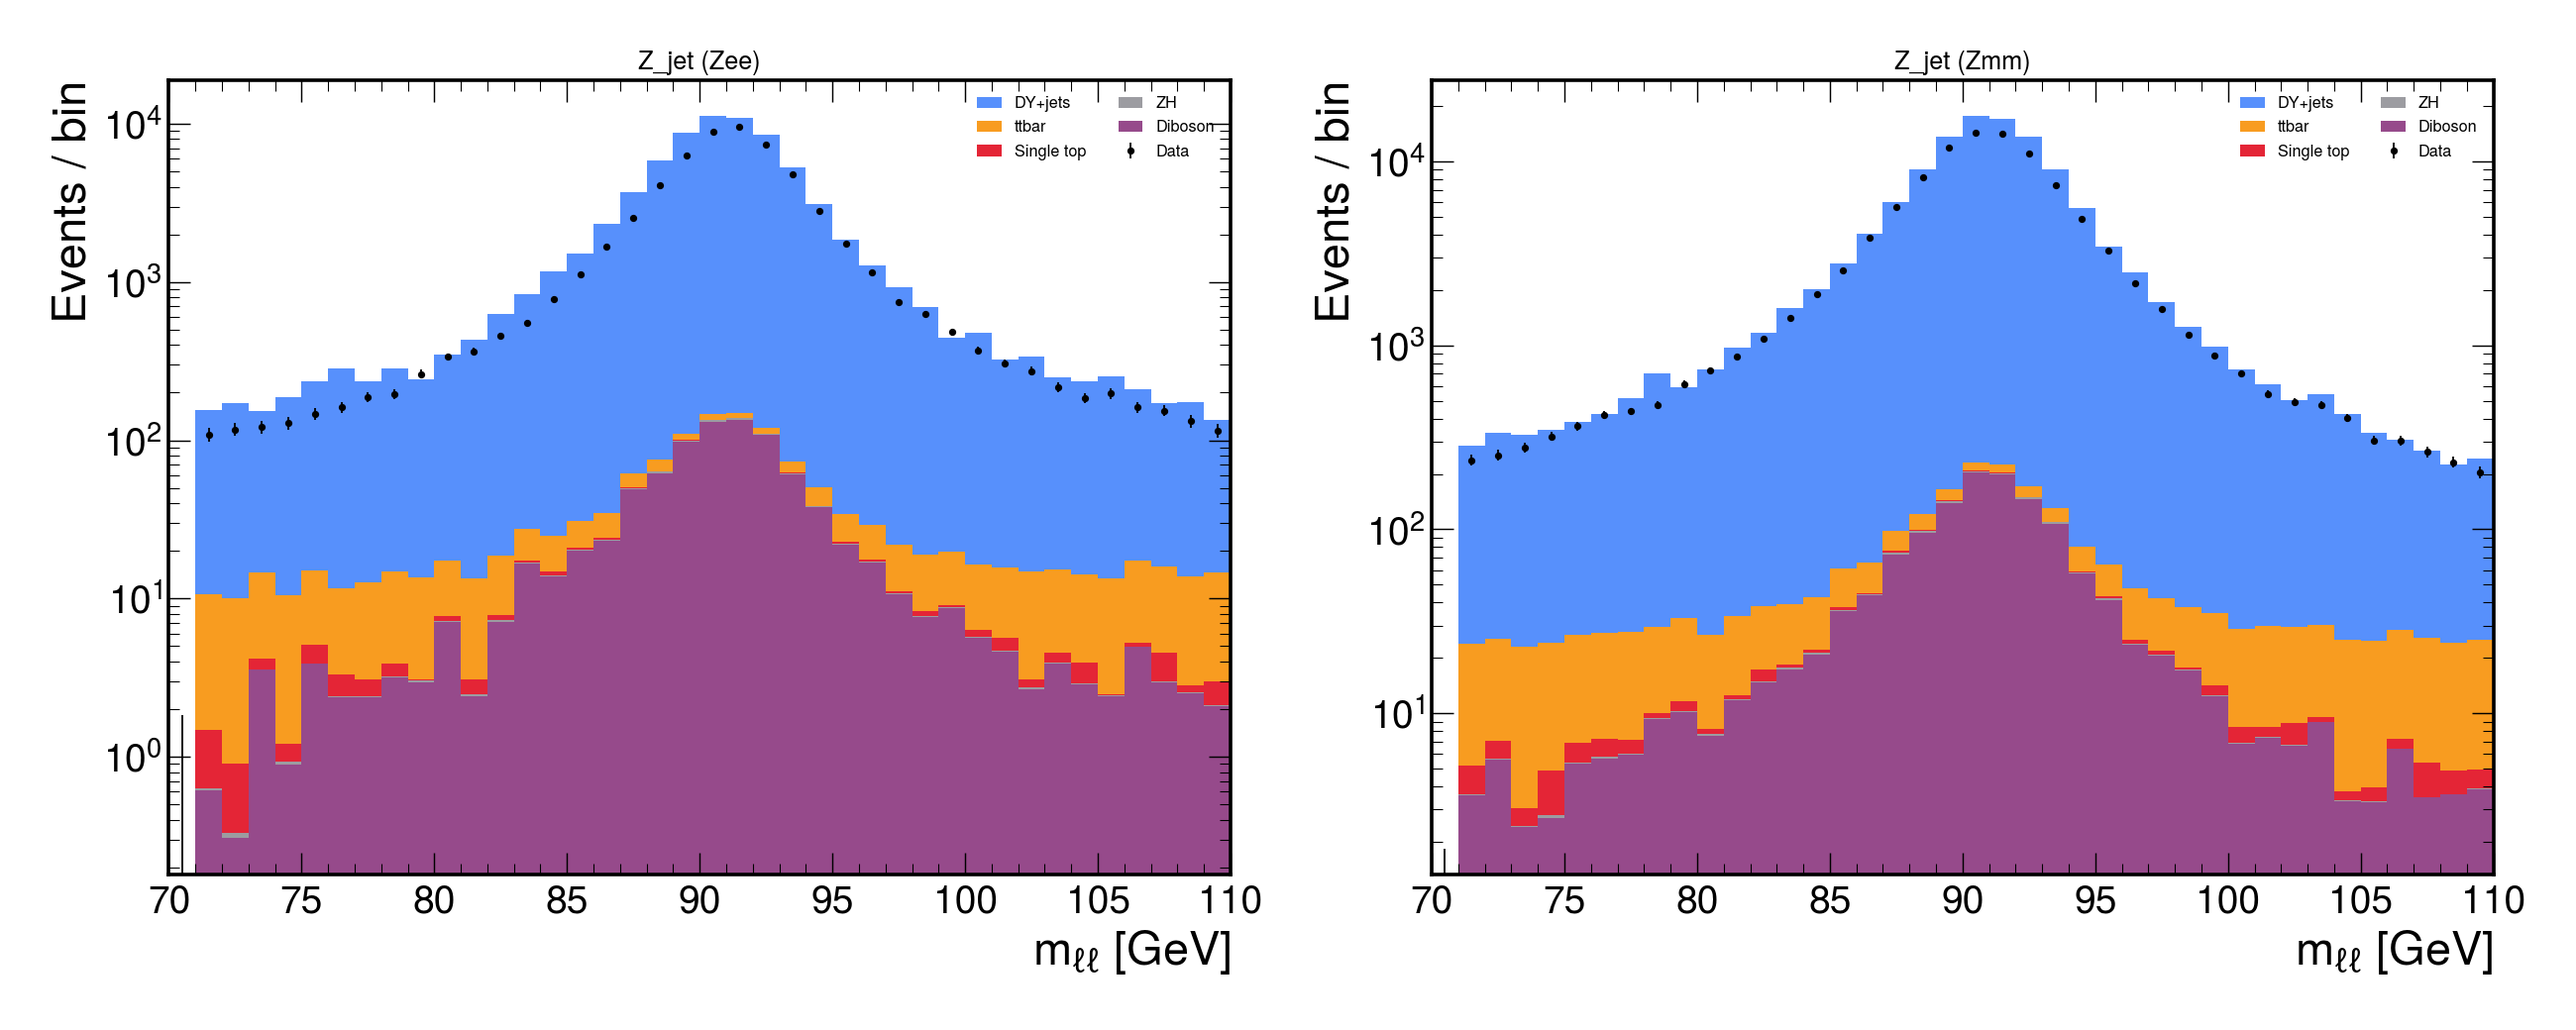
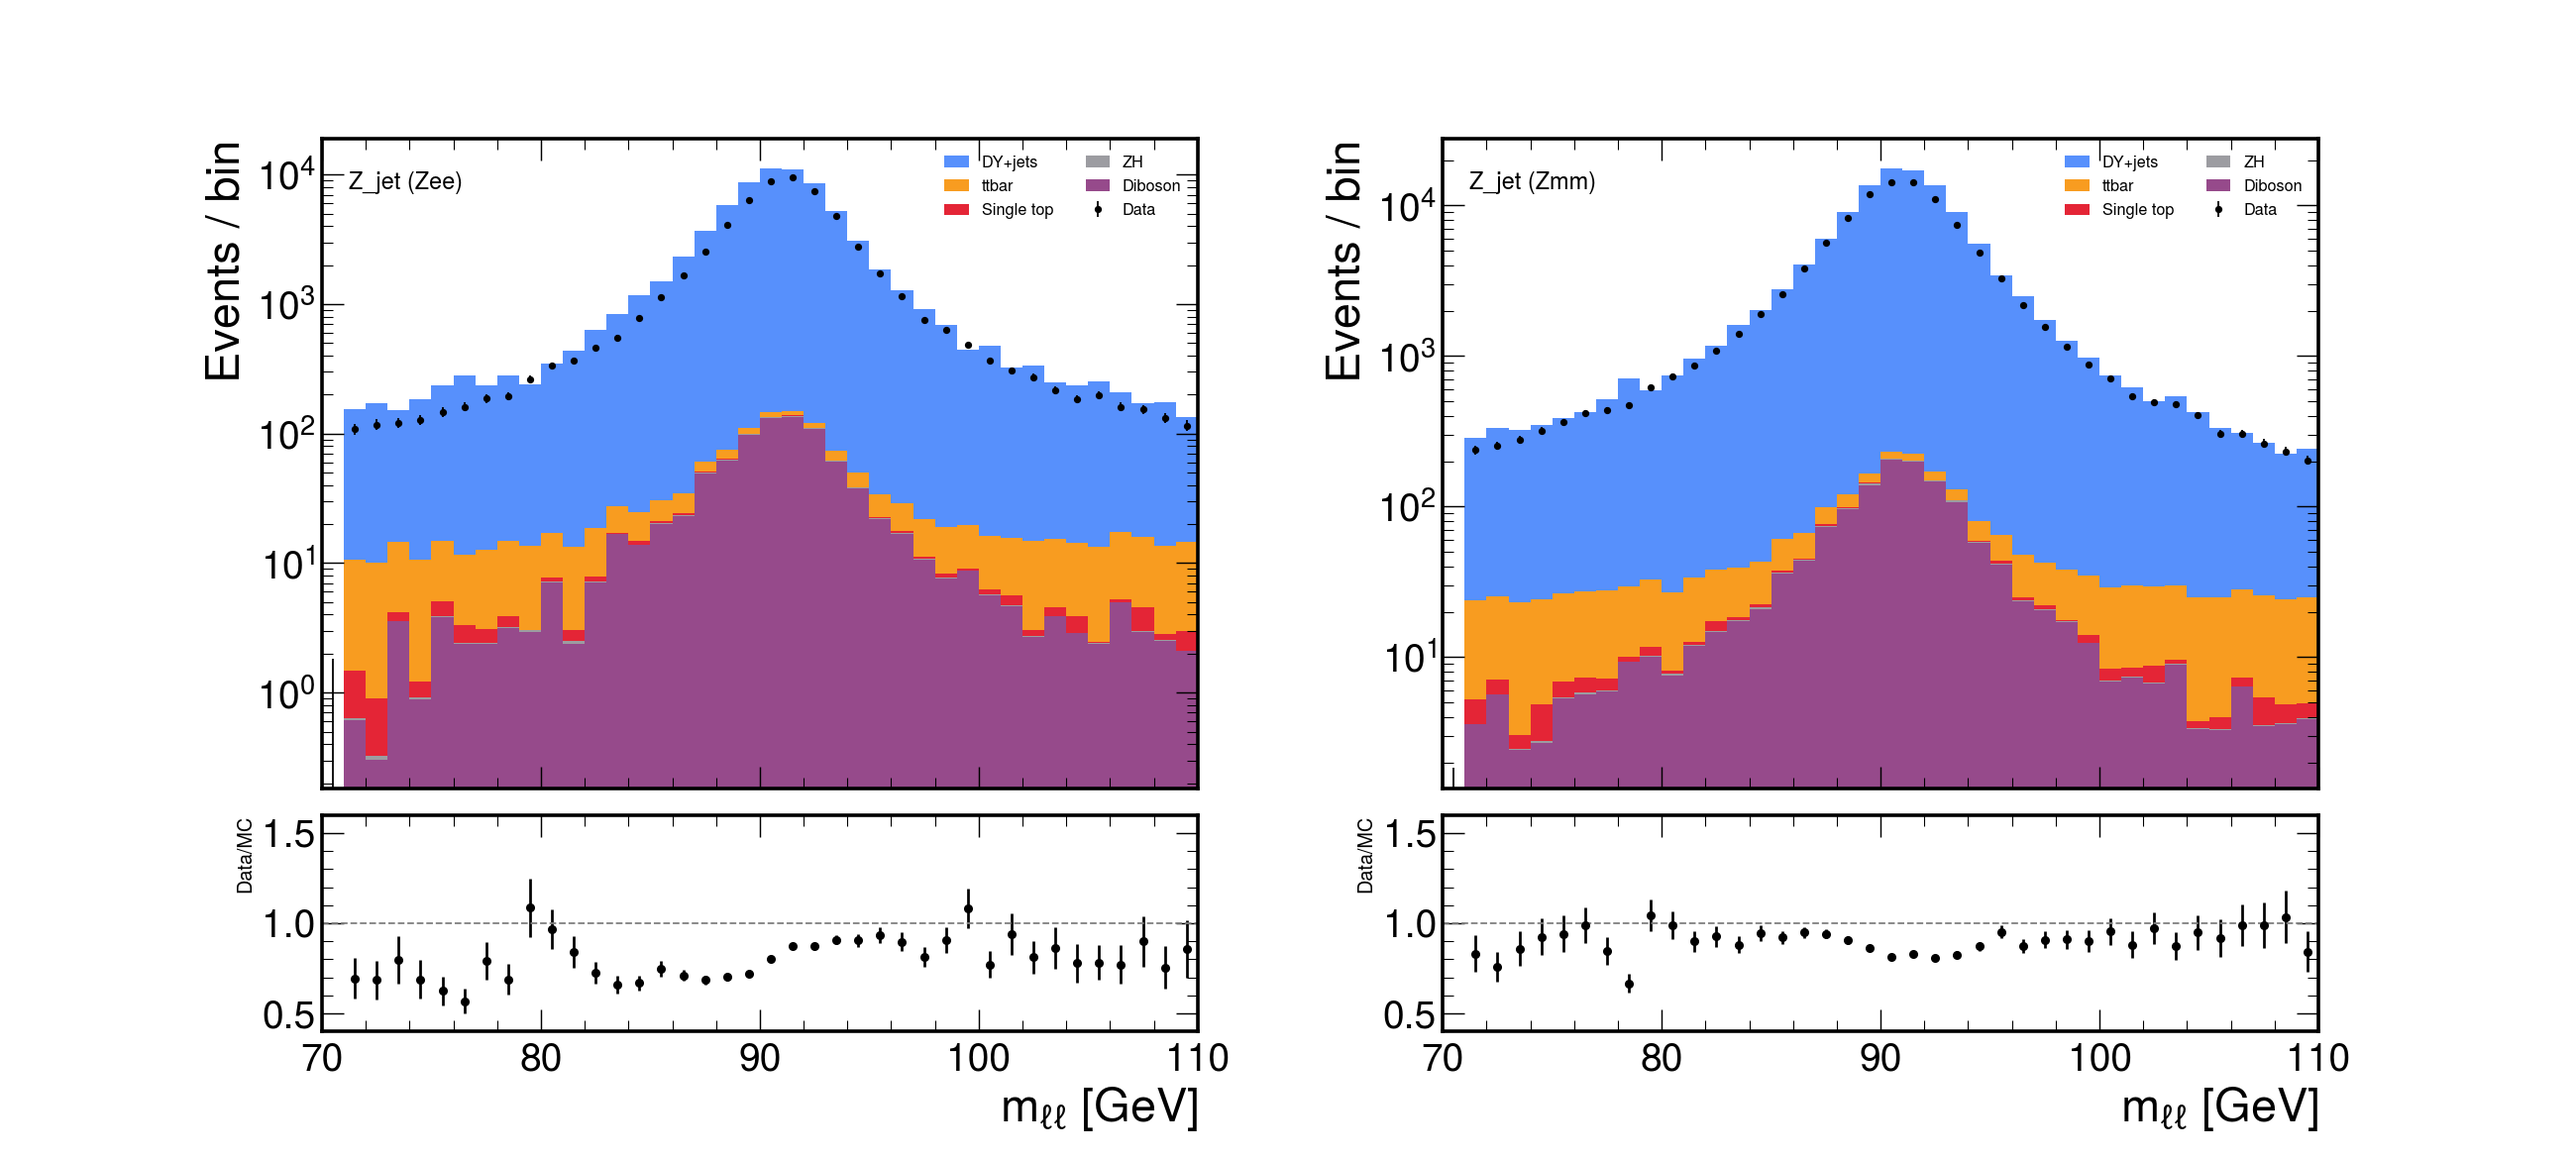
Add Data/MC ratio panels to all stacked plots
Matches the old ROOT-based ZbAnalysis_boosted convention (confirmed by
inspecting its saved canvas macros): 70/30 top/bottom split, ratio
histogram styled as black error-bar markers, horizontal reference line
at 1, y-axis labeled "Data/MC".

Implemented via matplotlib GridSpec: each panel is now a nested
subgridspec (main stack + ratio) instead of a single Axes, added to both
plot_stack_sample.py (make_plot now takes a figure + outer GridSpec cell)
and plot_full_overview.py (all 15 panels). Ratio uncertainty combines
data and MC statistical uncertainty in quadrature via each histogram's
tracked variances.

Also fixed a title/CMS-label collision this introduced in
plot_stack_sample.py by moving the region label into the plot area
(ax.text) instead of ax.set_title(), and explicitly clearing the main
panel's auto-generated x-axis label so it doesn't peek through above the
ratio panel.

diff --git a/plot_stack_sample.py b/plot_stack_sample.py
@@ -5,6 +5,7 @@ import matplotlib
 matplotlib.use("Agg")
 import matplotlib.pyplot as plt
 import mplhep as hep
+import numpy as np
 from coffea.util import load
 
 hep.style.use("CMS")
@@ -42,6 +43,7 @@ GROUPS = {
 }
 DATA_SAMPLES = ["EGamma_Run2018", "SingleMuon_Run2018"]
 COLORS = {"DY+jets": "#5790fc", "ttbar": "#f89c20", "Single top": "#e42536", "Diboson": "#964a8b", "ZH": "#9c9ca1"}
+ORDER = ["Diboson", "ZH", "Single top", "ttbar", "DY+jets"]
 
 
 def build_sel(h, region, channel):
@@ -84,15 +86,36 @@ def scaled_hist(histname, region=None, channel=None):
     return group_hists, data_total
 
 
-def make_plot(histname, region, xlabel, ax, channel=None, logy=True, xlim=None):
+def data_mc_ratio(mc_total, data_hist):
+    """Data/MC ratio with data+MC statistical uncertainty combined in quadrature."""
+    mc_vals, mc_vars = mc_total.values(), mc_total.variances()
+    data_vals, data_vars = data_hist.values(), data_hist.variances()
+    with np.errstate(divide="ignore", invalid="ignore"):
+        ratio = np.where(mc_vals > 0, data_vals / mc_vals, np.nan)
+        rel_err2 = np.where(data_vals > 0, data_vars / data_vals**2, 0.0) + np.where(
+            mc_vals > 0, mc_vars / mc_vals**2, 0.0
+        )
+        ratio_err = np.abs(ratio) * np.sqrt(rel_err2)
+    return ratio, ratio_err
+
+
+def make_plot(histname, region, xlabel, fig, subplot_spec, channel=None, logy=True, xlim=None):
+    """Draws a main stacked-histogram panel plus a Data/MC ratio panel below it
+    (70/30 height split, matching the old ROOT-based ZbAnalysis_boosted convention),
+    into the given figure at the given outer GridSpec cell. Returns the main axes
+    (for e.g. hep.cms.label placement)."""
     group_hists, data_hist = scaled_hist(histname, region, channel)
-    order = ["Diboson", "ZH", "Single top", "ttbar", "DY+jets"]
+
+    gs = subplot_spec.subgridspec(2, 1, height_ratios=[3, 1], hspace=0.06)
+    ax = fig.add_subplot(gs[0])
+    ax_ratio = fig.add_subplot(gs[1], sharex=ax)
+
     hep.histplot(
-        [group_hists[g] for g in order],
+        [group_hists[g] for g in ORDER],
         stack=True,
         histtype="fill",
-        label=order,
-        color=[COLORS[g] for g in order],
+        label=ORDER,
+        color=[COLORS[g] for g in ORDER],
         ax=ax,
     )
     hep.histplot(data_hist, histtype="errorbar", color="black", label="Data", ax=ax)
@@ -100,39 +123,54 @@ def make_plot(histname, region, xlabel, ax, channel=None, logy=True, xlim=None):
         ax.set_yscale("log")
     if xlim:
         ax.set_xlim(*xlim)
-    ax.set_xlabel(xlabel)
-    ax.set_ylabel(f"Events / bin")
+    ax.set_ylabel("Events / bin")
     title = region or histname
     if channel:
         title = f"{title} ({channel})"
-    ax.set_title(title, fontsize=14)
+    ax.text(0.03, 0.95, title, transform=ax.transAxes, fontsize=13, va="top", ha="left")
     ax.legend(fontsize=9, ncol=2)
+    ax.set_xlabel("")
+    plt.setp(ax.get_xticklabels(), visible=False)
+
+    mc_total = None
+    for g in ORDER:
+        mc_total = group_hists[g] if mc_total is None else mc_total + group_hists[g]
+    ratio, ratio_err = data_mc_ratio(mc_total, data_hist)
+    centers = mc_total.axes[0].centers
+    ax_ratio.errorbar(centers, ratio, yerr=ratio_err, fmt="o", color="black", markersize=4)
+    ax_ratio.axhline(1.0, color="gray", linestyle="--", linewidth=1)
+    ax_ratio.set_ylim(0.4, 1.6)
+    if xlim:
+        ax_ratio.set_xlim(*xlim)
+    ax_ratio.set_ylabel("Data/MC", fontsize=11)
+    ax_ratio.set_xlabel(xlabel)
+    return ax
 
 
-fig, axes = plt.subplots(1, 2, figsize=(20, 8))
-make_plot("cmp_mass_zcand", "Z_jet", r"$m_{\ell\ell}$ [GeV]", axes[0], xlim=(70, 110))
-make_plot("cmp_mass_zcand", "Z_bjet", r"$m_{\ell\ell}$ [GeV]", axes[1], xlim=(70, 110))
-hep.cms.label("Preliminary", data=True, lumi=LUMI_PB / 1000.0, year=2018, ax=axes[0])
-hep.cms.label("Preliminary", data=True, lumi=LUMI_PB / 1000.0, year=2018, ax=axes[1])
-plt.tight_layout()
+fig = plt.figure(figsize=(20, 9))
+gs_outer = fig.add_gridspec(1, 2, wspace=0.28)
+ax0 = make_plot("cmp_mass_zcand", "Z_jet", r"$m_{\ell\ell}$ [GeV]", fig, gs_outer[0], xlim=(70, 110))
+ax1 = make_plot("cmp_mass_zcand", "Z_bjet", r"$m_{\ell\ell}$ [GeV]", fig, gs_outer[1], xlim=(70, 110))
+hep.cms.label("Preliminary", data=True, lumi=LUMI_PB / 1000.0, year=2018, ax=ax0)
+hep.cms.label("Preliminary", data=True, lumi=LUMI_PB / 1000.0, year=2018, ax=ax1)
 
 outpath = f"{REPO}/qcd_sf_2018_sample_stack.png"
 plt.savefig(outpath, dpi=130)
 print("saved", outpath)
 
-fig2, axes2 = plt.subplots(1, 2, figsize=(20, 8))
-make_plot("cmp_pt_fj", "Z_jet", r"Leading AK8 jet $p_{T}$ [GeV]", axes2[0], logy=True, xlim=(195, 900))
-make_plot("jet0_particleNetMD_Xbb", None, "ParticleNetMD Xbb score", axes2[1])
-plt.tight_layout()
+fig2 = plt.figure(figsize=(20, 9))
+gs_outer2 = fig2.add_gridspec(1, 2, wspace=0.28)
+make_plot("cmp_pt_fj", "Z_jet", r"Leading AK8 jet $p_{T}$ [GeV]", fig2, gs_outer2[0], logy=True, xlim=(195, 900))
+make_plot("jet0_particleNetMD_Xbb", None, "ParticleNetMD Xbb score", fig2, gs_outer2[1])
 outpath2 = f"{REPO}/qcd_sf_2018_sample_stack2.png"
 plt.savefig(outpath2, dpi=130)
 print("saved", outpath2)
 
 # Zee vs Zmm split -- matches the old workflow keeping these as separate plots
-fig3, axes3 = plt.subplots(1, 2, figsize=(20, 8))
-make_plot("cmp_mass_zcand", "Z_jet", r"$m_{\ell\ell}$ [GeV]", axes3[0], channel="Zee", xlim=(70, 110))
-make_plot("cmp_mass_zcand", "Z_jet", r"$m_{\ell\ell}$ [GeV]", axes3[1], channel="Zmm", xlim=(70, 110))
-plt.tight_layout()
+fig3 = plt.figure(figsize=(20, 9))
+gs_outer3 = fig3.add_gridspec(1, 2, wspace=0.28)
+make_plot("cmp_mass_zcand", "Z_jet", r"$m_{\ell\ell}$ [GeV]", fig3, gs_outer3[0], channel="Zee", xlim=(70, 110))
+make_plot("cmp_mass_zcand", "Z_jet", r"$m_{\ell\ell}$ [GeV]", fig3, gs_outer3[1], channel="Zmm", xlim=(70, 110))
 outpath3 = f"{REPO}/qcd_sf_2018_sample_stack_by_channel.png"
 plt.savefig(outpath3, dpi=130)
 print("saved", outpath3)

diff --git a/plot_full_overview.py b/plot_full_overview.py
@@ -10,6 +10,7 @@ import matplotlib
 matplotlib.use("Agg")
 import matplotlib.pyplot as plt
 import mplhep as hep
+import numpy as np
 from coffea.util import load
 
 hep.style.use("CMS")
@@ -116,11 +117,29 @@ def scaled_group_hists(histname, sel, sumaxes):
     return group_hists, data_total
 
 
-fig, axes = plt.subplots(3, 5, figsize=(30, 18))
-axes = axes.flatten()
+def data_mc_ratio(mc_total, data_hist):
+    """Data/MC ratio with data+MC statistical uncertainty combined in quadrature."""
+    mc_vals, mc_vars = mc_total.values(), mc_total.variances()
+    data_vals, data_vars = data_hist.values(), data_hist.variances()
+    with np.errstate(divide="ignore", invalid="ignore"):
+        ratio = np.where(mc_vals > 0, data_vals / mc_vals, np.nan)
+        rel_err2 = np.where(data_vals > 0, data_vars / data_vals**2, 0.0) + np.where(
+            mc_vals > 0, mc_vars / mc_vals**2, 0.0
+        )
+        ratio_err = np.abs(ratio) * np.sqrt(rel_err2)
+    return ratio, ratio_err
 
-for ax, (name, sel, sumaxes, title, logy, xlim) in zip(axes, PLOTS):
+
+fig = plt.figure(figsize=(30, 21))
+gs_outer = fig.add_gridspec(3, 5, wspace=0.32, hspace=0.35)
+
+for i, (name, sel, sumaxes, title, logy, xlim) in enumerate(PLOTS):
     group_hists, data_hist = scaled_group_hists(name, sel, sumaxes)
+
+    gs = gs_outer[i // 5, i % 5].subgridspec(2, 1, height_ratios=[3, 1], hspace=0.06)
+    ax = fig.add_subplot(gs[0])
+    ax_ratio = fig.add_subplot(gs[1], sharex=ax)
+
     hep.histplot(
         [group_hists[g] for g in ORDER],
         stack=True,
@@ -135,9 +154,23 @@ for ax, (name, sel, sumaxes, title, logy, xlim) in zip(axes, PLOTS):
     if xlim:
         ax.set_xlim(*xlim)
     ax.set_title(title, fontsize=14)
+    ax.set_xlabel("")
+    plt.setp(ax.get_xticklabels(), visible=False)
+    if i == 0:
+        ax.legend(fontsize=8, ncol=2)
 
-axes[0].legend(fontsize=8, ncol=2)
-plt.tight_layout()
+    mc_total = None
+    for g in ORDER:
+        mc_total = group_hists[g] if mc_total is None else mc_total + group_hists[g]
+    ratio, ratio_err = data_mc_ratio(mc_total, data_hist)
+    centers = mc_total.axes[0].centers
+    ax_ratio.errorbar(centers, ratio, yerr=ratio_err, fmt="o", color="black", markersize=3)
+    ax_ratio.axhline(1.0, color="gray", linestyle="--", linewidth=1)
+    ax_ratio.set_ylim(0.4, 1.6)
+    if xlim:
+        ax_ratio.set_xlim(*xlim)
+    ax_ratio.set_ylabel("Data/MC", fontsize=9)
+    ax_ratio.tick_params(axis="both", labelsize=8)
 
 outpath = f"{REPO}/qcd_sf_2018_full_overview.png"
 plt.savefig(outpath, dpi=110)
